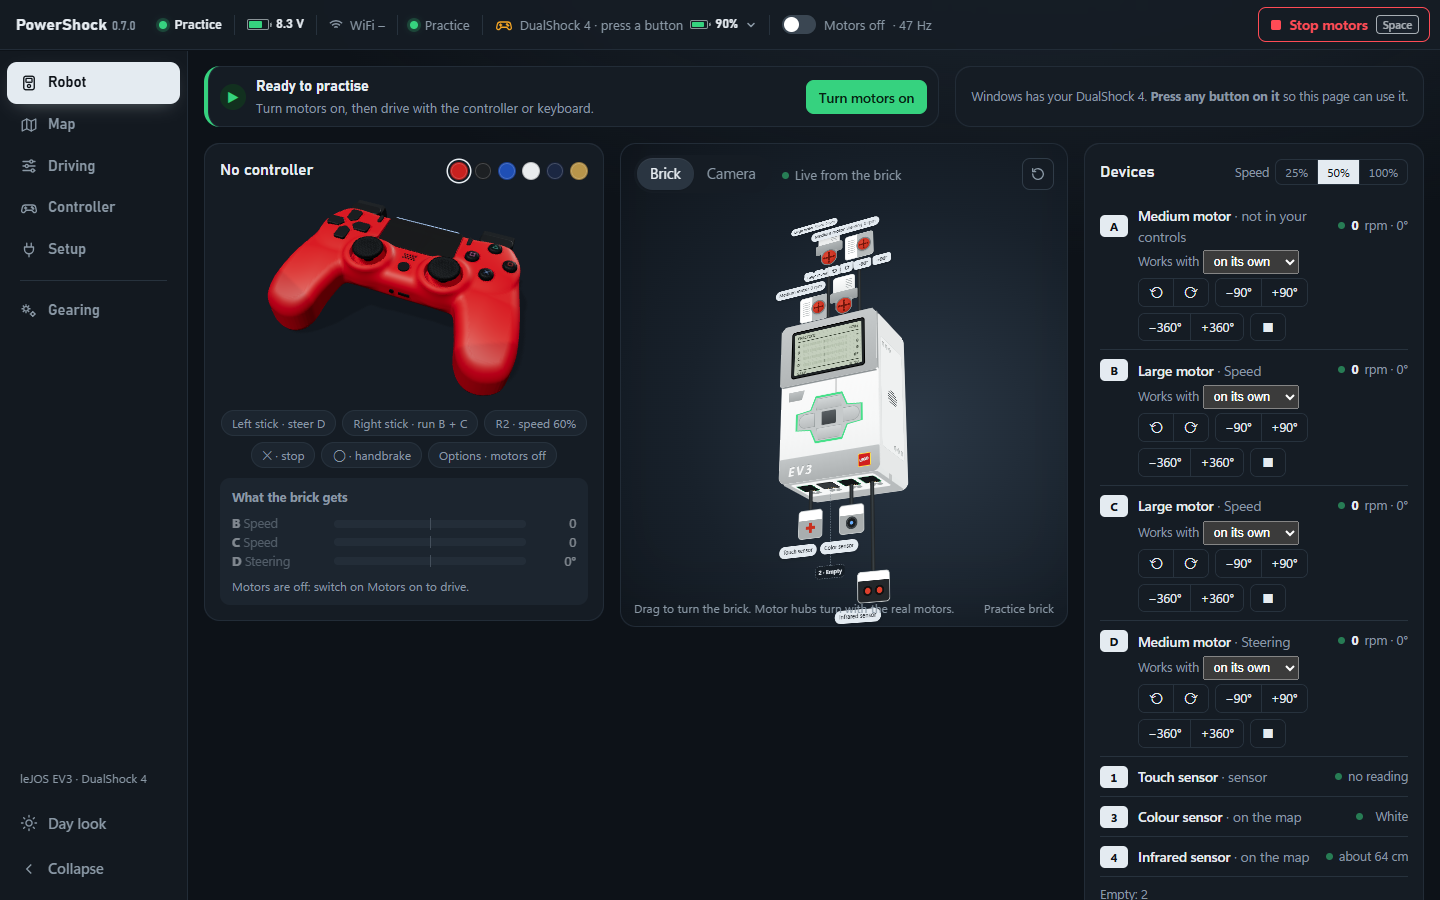
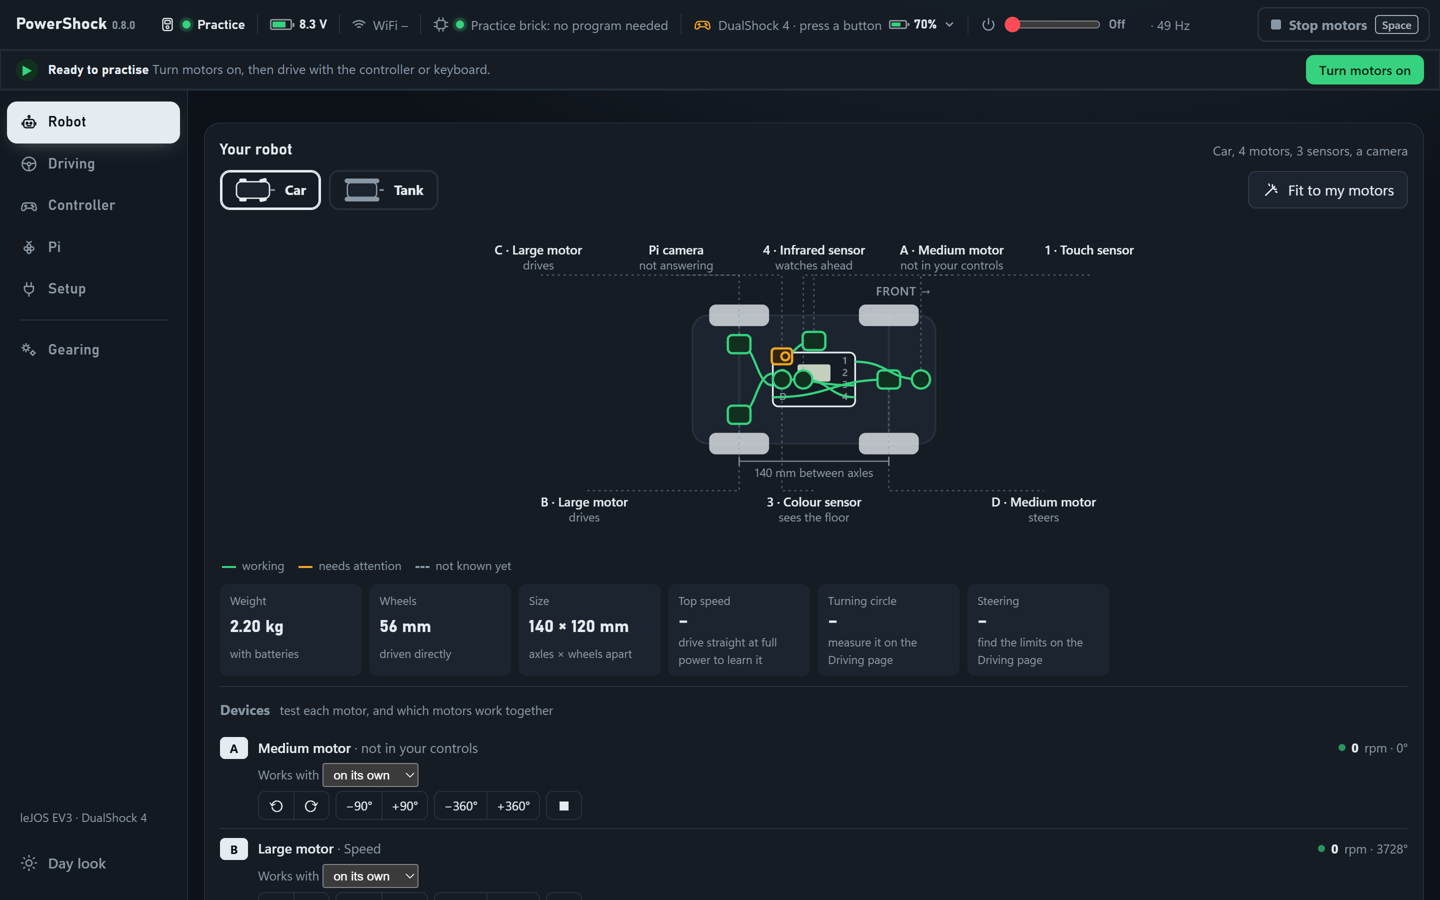
Retake the README screenshots and shrink the map on smaller screens
All pages taken again in Practice mode after the redesign, plus a new
Pi page shot; the brick's Bluetooth address on Setup is a placeholder.
The live map is a fifth smaller at 1280 px or less, like the other 3D
views. On a car, the robot drawing's lower labels move below the
axle-to-axle size line, which they used to overlap.

diff --git a/pc/console/index.html b/pc/console/index.html
@@ -877,6 +877,7 @@
   .maphud .hud-log li.old { color: var(--muted); }
   @media (max-width: 560px) { .maphud { width: auto; right: 14px; } .maphud .hud-log { display: none; } .maphud .hud-big { font-size: 30px; } }
   .map3d { height: clamp(380px, calc(100vh - 230px), 760px); background: linear-gradient(180deg, var(--well-mid), var(--map-floor)); }
+  @media (max-width: 1280px) { .map3d { height: clamp(304px, calc((100vh - 230px) * 0.8), 608px); } }
   .mapbar { display: flex; align-items: center; gap: 14px; padding: 10px 14px; border-top: 1px solid var(--rule); }
   .mapbar #mapPose { flex: 1; font-size: 12.5px; font-variant-numeric: tabular-nums; }
   .mapside h2 { font-size: 15px; margin: 0 0 8px; }
@@ -1920,7 +1921,8 @@ function drawRobot() {
   // along it in the order the devices sit, with a thin line down to the device
   const rows = { up: [], down: [] };
   list.forEach((d) => { (d.at.y > 0 ? rows.up : d.at.y < 0 ? rows.down : rows.up.length <= rows.down.length ? rows.up : rows.down).push(d); });
-  const yUp = Y(track / 2) - ww * k / 2 - 34, yDown = Y(-track / 2) + ww * k / 2 + 28;
+  // the lower row sits below the axle-to-axle size line on a car, so the two don't overlap
+  const yUp = Y(track / 2) - ww * k / 2 - 34, yDown = Y(-track / 2) + ww * k / 2 + (lay === "tank" ? 28 : 46);
   ["up", "down"].forEach((row) => {
     rows[row].sort((a, b) => a.at.x - b.at.x).forEach((d, i, all) => { d.lx = mL + (W - mL - mR) * (i + 0.5) / all.length; d.up = row === "up"; });
   });

diff --git a/README.md b/README.md
@@ -2,7 +2,7 @@
 
 Drive a LEGO Mindstorms EV3 running leJOS with a PS4 DualShock 4 controller, from a local web console on your Windows laptop.
 
-![The Robot page: the controller and the brick in 3D, live, with a motor test panel](docs/screenshots/robot.png)
+![The Robot page: the car drawn from above with each motor and sensor wired to its brick port, its sizes and stats, and a test panel for each motor](docs/screenshots/robot.png)
 
 - **Plug and drive:** pair the controller with Windows, connect the brick over WiFi or Bluetooth, and drive.
 - **Your robot, your controls:** choose which stick drives which motor. Each port gets two-wheel drive, speed, or a steering angle, with smoothing and a steering centre.
@@ -90,6 +90,8 @@ Give the robot eyes: a Raspberry Pi with a camera rides on it and streams live v
 - **In the console:** the **Pi** page takes the Pi's address and the access key it prints.
 - **Setup guide:** [docs/CAMERA.md](docs/CAMERA.md) covers the SD card, connecting the camera, the access key and starting at boot.
 
+![The Pi page: the camera's state, the object recognition model, and how to set up the Pi, with a 3D Raspberry Pi showing where each cable goes](docs/screenshots/pi.png)
+
 ### Object recognition (optional)
 
 The laptop can recognise 80 kinds of everyday thing in the camera's video, and draw a box and a name around each, about 10 times a second. Turn it on with the **Recognise objects** button on the Camera view, or press **R**.
@@ -146,7 +148,7 @@ The map also draws the obstacle brake's lines in front of the robot: where it st
 - **Weak spots:** a patterned rug, things the same colour as the floor, white skirting on a white floor. The live map on the Driving page says when the floor is too patterned to judge, and the brake then uses only the sensor.
 - **In Practice,** a pretend camera sees the practice room.
 
-![The live map (Driving page): the robot from behind, its infrared beam lighting up a box ahead, and the path driven from the start](docs/screenshots/map.png)
+![The Driving page: the live map with the robot from behind, the walls its infrared sensor found, and the path driven from the start; the sensors and the obstacle brake beside it](docs/screenshots/map.png)
 
 ### Driving
 
@@ -170,7 +172,7 @@ Which stick drives which motor. Pick a starting layout, then fine-tune each moto
   - **People and pets:** with [object recognition](#object-recognition-optional) set up, a person, cat, dog or bird close ahead makes the brake keep twice the distance, at half the speed.
   - **If the camera stops** while it's the only thing watching, the brake stops the robot, as it does without a sensor reading.
 
-![The Driving page: Car layout with steering on A and drive on B and C](docs/screenshots/driving.png)
+![How it drives, on the Driving page: speed boost, the obstacle brake, car calibration, and the Car layout with drive on B and C and steering on D](docs/screenshots/driving.png)
 
 ### Controller
 
@@ -183,7 +185,7 @@ The Controller page covers:
   - **Calibrate** learns the sticks' rest position and full range.
   - **Dead zone** and **Response** tune the feel.
 
-![The Controller page: wake-up help, controller details and stick calibration](docs/screenshots/controller.png)
+![The Controller page: the DualShock in 3D with what each control does, wake-up help, controller details and stick calibration](docs/screenshots/controller.png)
 
 ### Gearing
 
@@ -204,7 +206,7 @@ Everything the robot needs before driving, in the order you need it:
 2. **Program on the brick:** is PowerShock on the brick, and is it this version? **Upload latest build**, **Start**, **Stop**.
 3. **Brick:** battery, memory, versions, and what's plugged into each port, with LEGO's specs.
 
-![The Setup page: connect over Bluetooth, WiFi or Practice, the camera, the program on the brick, and the brick's ports](docs/screenshots/setup.png)
+![The Setup page: connect over Bluetooth, WiFi or Practice, the program on the brick, and the brick's ports](docs/screenshots/setup.png)
 
 ## Safety and security
 

diff --git a/CHANGELOG.md b/CHANGELOG.md
@@ -19,9 +19,14 @@ All notable changes to PowerShock. The format follows [Keep a Changelog](https:/
 
 ### Changed
 - **The Driving tab** has a steering wheel icon.
+- **The live map takes a fifth less room** on screens 1280 px wide or less, like the other 3D views.
+- **New screenshots in the README** for every page, including the Pi page.
 - **The Map is part of the Driving page:** the live map, with its readout and the sensors beside it, sits on top, and how the robot drives (speed boost, the obstacle brake, the car's limits, the motor ports) below. The Map tab is gone; old links to it open Driving. The brake's live state shows once, by the map.
 - **The Brick card starts folded** to one line: battery, how it's connected, the program, and a square per port coloured by what's in it. The arrow opens the 3D brick, and the page remembers.
 - **The Your robot drawing is clickable:** the Pi camera opens the Pi page, a motor its card on the Driving page, a sensor its row in Devices, the brick the Setup page, and the car the size form.
+
+### Fixed
+- **The Your robot drawing:** on a car, the size line under the axles no longer runs into the labels of the devices below it.
 
 ## [0.8.0] - 2026-11-27
 
